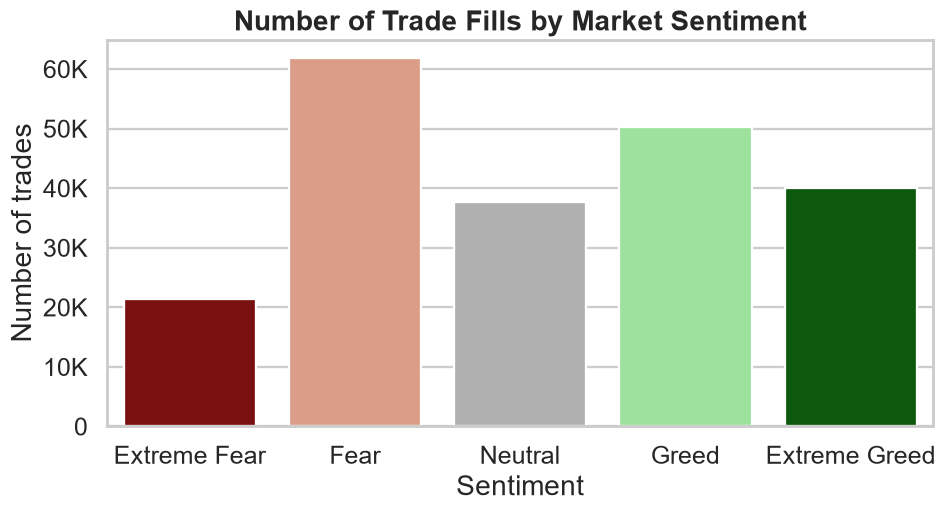
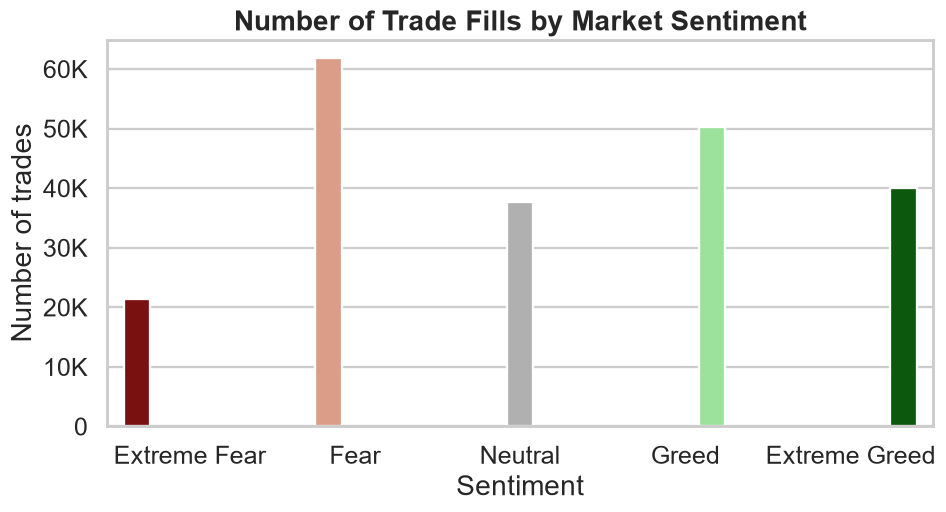
fixed notebook

Changed region(s): [[0.3066, 0.0938, 0.797, 0.8438], [0.8277, 0.3438, 0.9503, 0.8438], [0.1533, 0.5625, 0.2759, 0.8438]]

diff --git a/src/run_analysis.py b/src/run_analysis.py
@@ -35,7 +35,17 @@ def section(title):
 
 def save_table(df, name):
     path = TABLE_DIR / f"{name}.csv"
-    df.to_csv(path, index=True if df.index.name else False)
+    # BUGFIX: `df.index.name` is None both for a MultiIndex (it has `.names`,
+    # not `.name`) and for a meaningful-but-unnamed single Index (e.g. a
+    # correlation matrix, whose row labels match its column labels). The old
+    # check `index=True if df.index.name else False` silently dropped row
+    # labels in both cases, making direction_performance_by_sentiment.csv,
+    # segment_performance_by_sentiment.csv, and correlation_matrix_spearman.csv
+    # impossible to interpret (no way to tell which row is which sentiment/
+    # segment/side/variable). Only a plain default RangeIndex (produced by an
+    # explicit .reset_index()) should be omitted.
+    has_meaningful_index = not isinstance(df.index, pd.RangeIndex)
+    df.to_csv(path, index=has_meaningful_index)
     print(f"Saved table: {path}")
 
 
@@ -73,7 +83,7 @@ print(df["fee"].describe())
 # --- EDA visuals ---
 fig, ax = plt.subplots(figsize=(9, 5))
 sns.countplot(x="sentiment", data=df, order=SENTIMENT_ORDER,
-              palette=SENTIMENT_PALETTE, ax=ax)
+              hue="sentiment", palette=SENTIMENT_PALETTE, legend=False, ax=ax)
 ax.set_title("Number of Trade Fills by Market Sentiment")
 ax.set_xlabel("Sentiment"); ax.set_ylabel("Number of trades")
 format_large_numbers(ax)
@@ -153,7 +163,8 @@ print(f"Total PnL and median PnL point to the {'SAME' if same_story else 'DIFFER
 
 fig, ax = plt.subplots(figsize=(9, 5))
 sns.barplot(x=perf_by_sentiment.index, y=perf_by_sentiment["total_pnl"],
-            order=SENTIMENT_ORDER, palette=SENTIMENT_PALETTE, ax=ax)
+            order=SENTIMENT_ORDER, hue=perf_by_sentiment.index,
+            palette=SENTIMENT_PALETTE, legend=False, ax=ax)
 ax.set_title("Total Closed PnL by Market Sentiment")
 ax.set_xlabel("Sentiment"); ax.set_ylabel("Total Closed PnL (USD)")
 format_large_numbers(ax)
@@ -161,18 +172,21 @@ save_fig(fig, "05_total_pnl_by_sentiment")
 
 fig, ax = plt.subplots(1, 2, figsize=(14, 5))
 sns.barplot(x=perf_by_sentiment.index, y=perf_by_sentiment["mean_pnl"],
-            order=SENTIMENT_ORDER, palette=SENTIMENT_PALETTE, ax=ax[0])
+            order=SENTIMENT_ORDER, hue=perf_by_sentiment.index,
+            palette=SENTIMENT_PALETTE, legend=False, ax=ax[0])
 ax[0].set_title("Mean PnL by Sentiment"); ax[0].set_xlabel(""); ax[0].set_ylabel("Mean PnL (USD)")
 ax[0].tick_params(axis='x', rotation=30)
 sns.barplot(x=perf_by_sentiment.index, y=perf_by_sentiment["median_pnl"],
-            order=SENTIMENT_ORDER, palette=SENTIMENT_PALETTE, ax=ax[1])
+            order=SENTIMENT_ORDER, hue=perf_by_sentiment.index,
+            palette=SENTIMENT_PALETTE, legend=False, ax=ax[1])
 ax[1].set_title("Median PnL by Sentiment"); ax[1].set_xlabel(""); ax[1].set_ylabel("Median PnL (USD)")
 ax[1].tick_params(axis='x', rotation=30)
 save_fig(fig, "06_mean_vs_median_pnl_by_sentiment")
 
 fig, ax = plt.subplots(figsize=(9, 5))
 sns.barplot(x=perf_by_sentiment.index, y=perf_by_sentiment["win_rate"] * 100,
-            order=SENTIMENT_ORDER, palette=SENTIMENT_PALETTE, ax=ax)
+            order=SENTIMENT_ORDER, hue=perf_by_sentiment.index,
+            palette=SENTIMENT_PALETTE, legend=False, ax=ax)
 ax.set_title("Win Rate by Market Sentiment")
 ax.set_xlabel("Sentiment"); ax.set_ylabel("Win rate (%)")
 save_fig(fig, "07_win_rate_by_sentiment")
@@ -182,7 +196,7 @@ plot_data = closing_sent.copy()
 plot_data["pnl_clip"] = plot_data["closed_pnl"].clip(
     plot_data["closed_pnl"].quantile(0.02), plot_data["closed_pnl"].quantile(0.98))
 sns.boxplot(x="sentiment", y="pnl_clip", data=plot_data, order=SENTIMENT_ORDER,
-            palette=SENTIMENT_PALETTE, ax=ax, showfliers=False)
+            hue="sentiment", palette=SENTIMENT_PALETTE, legend=False, ax=ax, showfliers=False)
 ax.axhline(0, color="black", linewidth=0.8)
 ax.set_title("Closed PnL Distribution by Sentiment (2nd-98th pct, outliers hidden)")
 ax.set_xlabel("Sentiment"); ax.set_ylabel("Closed PnL (USD)")
@@ -222,7 +236,8 @@ save_table(behavior_by_sentiment.round(4), "behavior_by_sentiment")
 
 fig, ax = plt.subplots(figsize=(9, 5))
 sns.barplot(x=behavior_by_sentiment.index, y=behavior_by_sentiment["avg_trade_size"],
-            order=SENTIMENT_ORDER, palette=SENTIMENT_PALETTE, ax=ax)
+            order=SENTIMENT_ORDER, hue=behavior_by_sentiment.index,
+            palette=SENTIMENT_PALETTE, legend=False, ax=ax)
 ax.set_title("Average Trade Size (USD) by Sentiment")
 ax.set_xlabel("Sentiment"); ax.set_ylabel("Avg trade size (USD)")
 format_large_numbers(ax)
@@ -381,7 +396,7 @@ print(f"\nTop 20% traders average {top_freq:.2f} trades/active day vs "
       f"{'Top traders trade MORE' if top_freq > bottom_freq else 'Bottom traders trade MORE (possible overtrading signal)'}")
 
 section("PHASE 15 (partial): Mann-Whitney - win rate, Top 20% vs Bottom 20%")
-sh.mannwhitney_test(
+mw_result = sh.mannwhitney_test(
     qualified.loc[qualified["segment"] == "Top 20%", "win_rate"].values,
     qualified.loc[qualified["segment"] == "Bottom 20%", "win_rate"].values,
     "Top 20%", "Bottom 20%", "win_rate"
@@ -398,10 +413,10 @@ trader_day_to_save = trader_day.copy()
 trader_day_to_save[numeric_day_cols] = trader_day_to_save[numeric_day_cols].round(4)
 save_table(trader_day_to_save, "trader_day_aggregates")
 
-sh.spearman_corr(trader_day["n_trades"], trader_day["total_pnl"], "n_trades", "total_pnl")
+res_freq_totalpnl = sh.spearman_corr(trader_day["n_trades"], trader_day["total_pnl"], "n_trades", "total_pnl")
 res_freq_pnlpertrade = sh.spearman_corr(trader_day["n_trades"], trader_day["pnl_per_trade"], "n_trades", "pnl_per_trade")
-sh.spearman_corr(trader_day["n_trades"], trader_day["win_rate"], "n_trades", "win_rate")
-sh.spearman_corr(trader_day["n_trades"], trader_day["total_fees"], "n_trades", "total_fees")
+res_freq_winrate = sh.spearman_corr(trader_day["n_trades"], trader_day["win_rate"], "n_trades", "win_rate")
+res_freq_fees = sh.spearman_corr(trader_day["n_trades"], trader_day["total_fees"], "n_trades", "total_fees")
 
 fig, ax = plt.subplots(figsize=(9, 5))
 bucket_edges = [0, 5, 10, 20, 50, trader_day["n_trades"].max() + 1]
@@ -446,7 +461,7 @@ save_table(risk_by_sentiment.round(4), "risk_by_sentiment")
 print("\nNOTE: No 'leverage' column exists in the raw dataset -> leverage-based "
       "risk metrics are not computed (documented limitation).")
 
-sh.spearman_corr(closing_sent["size_usd"], closing_sent["closed_pnl"], "size_usd", "closed_pnl")
+res_size_pnl = sh.spearman_corr(closing_sent["size_usd"], closing_sent["closed_pnl"], "size_usd", "closed_pnl")
 
 extreme_greed_loss = risk_by_sentiment.loc["Extreme Greed", "max_loss"]
 fear_loss = risk_by_sentiment.loc["Fear", "max_loss"]
@@ -590,6 +605,33 @@ original_leader = perf_by_sentiment["mean_pnl"].idxmax()
 print(f"\nMost profitable sentiment by winsorized mean PnL: {winsor_leader} "
       f"(original unwinsorized mean-PnL leader was {original_leader}) -> "
       f"conclusion {'UNCHANGED' if winsor_leader == original_leader else 'CHANGES under winsorization, indicating mean PnL by sentiment is sensitive to extreme trades'}")
+
+# ====================================================================
+# CONSOLIDATED STATISTICAL TEST SUMMARY
+# ====================================================================
+# Saved so that final_report.py can read every statistic back from a CSV
+# table instead of hard-typing test results in the executive summary.
+stats_summary_rows = [
+    {"test": "kruskal_wallis_closed_pnl_by_sentiment", "statistic": kw_result["stat"],
+     "p_value": kw_result["p"], "significant": kw_result["significant"], "effect_size": np.nan},
+    {"test": "chi_square_sentiment_vs_profitability", "statistic": chi_result["stat"],
+     "p_value": chi_result["p"], "significant": chi_result["significant"],
+     "effect_size": chi_result["cramers_v"]},
+    {"test": "spearman_daily_n_trades_vs_total_pnl", "statistic": res_freq_totalpnl["rho"],
+     "p_value": res_freq_totalpnl["p"], "significant": res_freq_totalpnl["significant"], "effect_size": np.nan},
+    {"test": "spearman_daily_n_trades_vs_pnl_per_trade", "statistic": res_freq_pnlpertrade["rho"],
+     "p_value": res_freq_pnlpertrade["p"], "significant": res_freq_pnlpertrade["significant"], "effect_size": np.nan},
+    {"test": "spearman_daily_n_trades_vs_win_rate", "statistic": res_freq_winrate["rho"],
+     "p_value": res_freq_winrate["p"], "significant": res_freq_winrate["significant"], "effect_size": np.nan},
+    {"test": "spearman_daily_n_trades_vs_total_fees", "statistic": res_freq_fees["rho"],
+     "p_value": res_freq_fees["p"], "significant": res_freq_fees["significant"], "effect_size": np.nan},
+    {"test": "spearman_size_usd_vs_closed_pnl", "statistic": res_size_pnl["rho"],
+     "p_value": res_size_pnl["p"], "significant": res_size_pnl["significant"], "effect_size": np.nan},
+    {"test": "mannwhitney_winrate_top20_vs_bottom20", "statistic": mw_result["stat"],
+     "p_value": mw_result["p"], "significant": mw_result["significant"], "effect_size": np.nan},
+]
+stats_summary = pd.DataFrame(stats_summary_rows).set_index("test")
+save_table(stats_summary, "stats_summary")
 
 section("PHASES 5-17 COMPLETE")
 print("Proceed to hidden-pattern synthesis and executive summary (see outputs/tables and outputs/figures).")

diff --git a/src/final_report.py b/src/final_report.py
@@ -23,6 +23,17 @@ asset_perf = pd.read_csv(TAB / "asset_performance.csv", index_col=0)
 corr = pd.read_csv(TAB / "correlation_matrix_spearman.csv", index_col=0)
 sent_dist = pd.read_csv(TAB / "sentiment_distribution.csv", index_col=0)
 trader_all = pd.read_csv(TAB / "trader_level_aggregates_all.csv", index_col=0)
+stats_summary = pd.read_csv(TAB / "stats_summary.csv", index_col=0)
+
+kw_stat = stats_summary.loc["kruskal_wallis_closed_pnl_by_sentiment", "statistic"]
+kw_p = stats_summary.loc["kruskal_wallis_closed_pnl_by_sentiment", "p_value"]
+chi_stat = stats_summary.loc["chi_square_sentiment_vs_profitability", "statistic"]
+chi_p = stats_summary.loc["chi_square_sentiment_vs_profitability", "p_value"]
+cramers_v = stats_summary.loc["chi_square_sentiment_vs_profitability", "effect_size"]
+mw_p = stats_summary.loc["mannwhitney_winrate_top20_vs_bottom20", "p_value"]
+rho_fees = stats_summary.loc["spearman_daily_n_trades_vs_total_fees", "statistic"]
+rho_pnlpertrade = stats_summary.loc["spearman_daily_n_trades_vs_pnl_per_trade", "statistic"]
+rho_size_fee = corr.loc["size_usd", "fee"]
 
 most_total = perf["total_pnl"].idxmax()
 least_total = perf["total_pnl"].idxmin()
@@ -91,7 +102,7 @@ report = f"""# Executive Summary — Bitcoin Sentiment vs. Hyperliquid Trader Be
   ({most_total}) is *not* the same as the one with the best risk-adjusted return, meaning
   {most_total} periods carry more volatility per unit of return.
 - A **Kruskal-Wallis test** confirmed closed PnL distributions differ significantly across
-  sentiment categories (H=730.33, p≈9.4e-157, alpha=0.05).
+  sentiment categories (H={kw_stat:.2f}, p≈{kw_p:.2g}, alpha=0.05).
 - A **winsorized robustness check** (1st/99th percentile clipping) found the top sentiment by
   mean PnL was **{winsor_leader}** both before and after winsorization — this particular
   conclusion is robust to extreme values, even though total-PnL rankings are not.
@@ -108,14 +119,14 @@ report = f"""# Executive Summary — Bitcoin Sentiment vs. Hyperliquid Trader Be
   {behavior['buy_pct'].max()*100:.1f}% across sentiment categories — traders in this dataset do
   not dramatically shift BUY/SELL mix with sentiment.
 - A **chi-square test** confirmed sentiment and trade profitability are significantly
-  associated (Cramer's V ≈ 0.14, a modest/moderate effect size — statistically real but not huge
-  in practical terms).
+  associated (Chi2={chi_stat:.2f}, p≈{chi_p:.2g}, Cramer's V ≈ {cramers_v:.2f}, a modest/moderate
+  effect size — statistically real but not huge in practical terms).
 
 ## 6. Differences Between Successful and Unsuccessful Traders (Top 20% vs Bottom 20% by total PnL)
 - Top 20% traders average **{seg.loc['Top 20%','avg_win_rate']*100:.1f}%** win rate vs
   **{seg.loc['Bottom 20%','avg_win_rate']*100:.1f}%** for Bottom 20% (Mann-Whitney U-test,
-  p=0.097 — not statistically significant at the 32-trader sample size available; a directional
-  but not conclusively proven difference).
+  p={mw_p:.3f} — not statistically significant at the {total_traders}-trader sample size
+  available; a directional but not conclusively proven difference).
 - Top 20% traders trade **more** frequently ({seg.loc['Top 20%','avg_trades_per_day']:.1f}
   trades/active day) than Bottom 20% traders ({seg.loc['Bottom 20%','avg_trades_per_day']:.1f}) —
   in this dataset, higher activity is associated with the *top* performers, not overtrading
@@ -133,9 +144,9 @@ report = f"""# Executive Summary — Bitcoin Sentiment vs. Hyperliquid Trader Be
 - The single largest loss on any trade occurred during **{risk['max_loss'].idxmin()}**
   (${risk['max_loss'].min():,.2f}).
 - At the trader-day level, trade frequency correlates positively with total fees paid
-  (Spearman rho reported in the full log ≈0.61, strong) and negatively with per-trade PnL
-  (rho ≈ -0.14, weak-but-significant) — more trades in a day tends to come with a lower
-  average payoff per trade, even though total PnL still rises with volume.
+  (Spearman rho≈{rho_fees:.2f}, strong) and negatively with per-trade PnL
+  (rho≈{rho_pnlpertrade:.2f}, weak-but-significant) — more trades in a day tends to come with a
+  lower average payoff per trade, even though total PnL still rises with volume.
 - {top5_share_line}
 - {top1_line}
 
@@ -145,7 +156,7 @@ report = f"""# Executive Summary — Bitcoin Sentiment vs. Hyperliquid Trader Be
   risk-adjusted metrics tell a materially different story in this data.
 - Use sentiment as a *volatility/risk signal* rather than a blind directional signal: PnL
   volatility and risk-adjusted returns vary meaningfully by sentiment (Kruskal-Wallis
-  p≈9.4e-157), but a simple BUY-in-Greed / SELL-in-Fear rule is not clearly supported once
+  p≈{kw_p:.2g}), but a simple BUY-in-Greed / SELL-in-Fear rule is not clearly supported once
   extreme trades are excluded (Section 8's direction robustness check).
 
 **Weak / exploratory (directional but not statistically conclusive at n=32 traders):**
@@ -154,8 +165,8 @@ report = f"""# Executive Summary — Bitcoin Sentiment vs. Hyperliquid Trader Be
   to confirm this is a real skill signal rather than noise.
 
 **Correlations that do not establish causation:**
-- size_usd and fee are highly correlated (rho=0.82) simply because Hyperliquid fees scale with
-  notional size — this is a mechanical relationship, not a behavioral insight.
+- size_usd and fee are highly correlated (rho={rho_size_fee:.2f}) simply because Hyperliquid fees
+  scale with notional size — this is a mechanical relationship, not a behavioral insight.
 - Trade frequency correlating with lower per-trade PnL does not prove that trading less would
   make any individual trader more profitable; it may simply reflect that active market-making
   style accounts naturally have smaller average PnL per fill while accumulating profit through

diff --git a/build_notebook.py b/build_notebook.py
@@ -5,6 +5,19 @@ import nbformat as nbf
 from pathlib import Path
 
 nb = nbf.v4.new_notebook()
+nb["metadata"] = {
+    "kernelspec": {
+        "display_name": "Python 3",
+        "language": "python",
+        "name": "python3",
+    },
+    "language_info": {
+        "name": "python",
+        "file_extension": ".py",
+        "mimetype": "text/x-python",
+        "pygments_lexer": "ipython3",
+    },
+}
 cells = []
 
 def md(text):